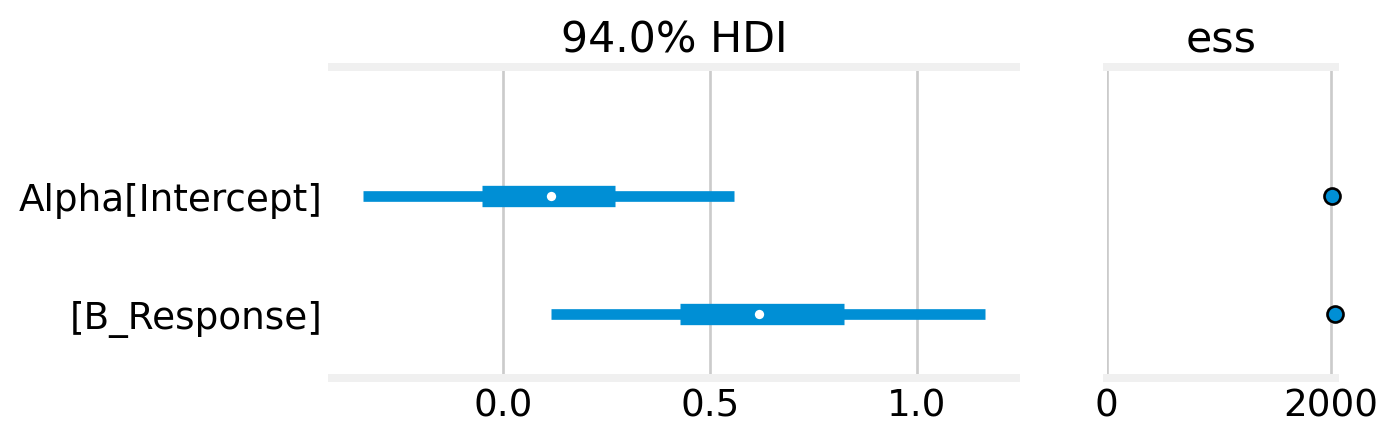
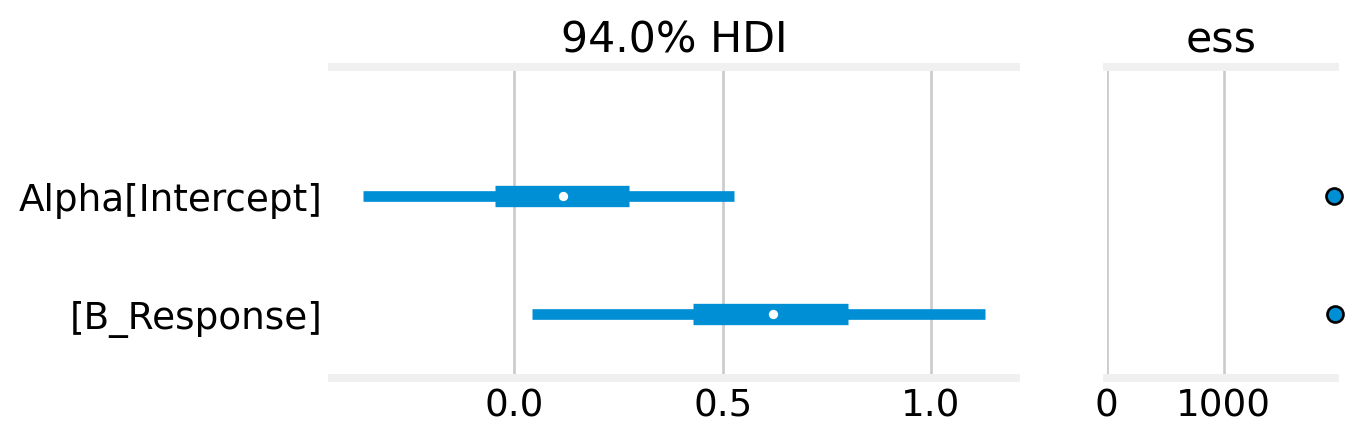
set xlim

diff --git a/docs/closed_cmr.html b/docs/closed_cmr.html
@@ -382,7 +382,7 @@ Table&nbsp;1: Example capture history, where <span class="math inline">\(t\)</sp
 <p>This produces a capture history for each individual, which allows us to estimate the probability of capture and the number of individuals in the population <span class="math inline">\(N\)</span>.</p>
 <section id="model-m_0" class="level1">
 <h1>Model <span class="math inline">\(M_0\)</span></h1>
-<div id="9339667e" class="cell" data-execution_count="1">
+<div id="86b6d334" class="cell" data-execution_count="1">
 <div class="sourceCode cell-code" id="cb1"><pre class="sourceCode python code-with-copy"><code class="sourceCode python"><span id="cb1-1"><a href="#cb1-1" aria-hidden="true" tabindex="-1"></a><span class="co"># libraries </span></span>
 <span id="cb1-2"><a href="#cb1-2" aria-hidden="true" tabindex="-1"></a><span class="im">import</span> numpy <span class="im">as</span> np</span>
 <span id="cb1-3"><a href="#cb1-3" aria-hidden="true" tabindex="-1"></a><span class="im">import</span> pandas <span class="im">as</span> pd</span>
@@ -404,7 +404,7 @@ Table&nbsp;1: Example capture history, where <span class="math inline">\(t\)</sp
 <span id="cb1-19"><a href="#cb1-19" aria-hidden="true" tabindex="-1"></a>M <span class="op">=</span> <span class="dv">1500</span></span></code><button title="Copy to Clipboard" class="code-copy-button"><i class="bi"></i></button></pre></div>
 </div>
 <p>I explore fitting the simplest closed capture-recapture model, Model <span class="math inline">\(M_0,\)</span> through parameter-expanded data-augmentation <span class="citation" data-cites="royle2008">(PX-DA, <a href="#ref-royle2008" role="doc-biblioref">Royle and Dorazio 2008</a>)</span>. The idea with PX-DA is to augment the capture histories with <span class="math inline">\(M-n\)</span> all zero capture-histories, where <span class="math inline">\(M\)</span> is a hyperparameter that should be much greater than the true population size <span class="math inline">\(N,\)</span> and <span class="math inline">\(n\)</span> is the total number of individuals that were captured during the study. This allows us to treat the data as a zero-inflated binomial distribution (see below).</p>
-<div id="f0224abd" class="cell" data-execution_count="2">
+<div id="2c12317d" class="cell" data-execution_count="2">
 <div class="sourceCode cell-code" id="cb2"><pre class="sourceCode python code-with-copy"><code class="sourceCode python"><span id="cb2-1"><a href="#cb2-1" aria-hidden="true" tabindex="-1"></a><span class="kw">def</span> augment_history(history):</span>
 <span id="cb2-2"><a href="#cb2-2" aria-hidden="true" tabindex="-1"></a>    <span class="co">'''Augment a capture history with all-zero histories.'''</span></span>
 <span id="cb2-3"><a href="#cb2-3" aria-hidden="true" tabindex="-1"></a>    </span>
@@ -420,7 +420,7 @@ Table&nbsp;1: Example capture history, where <span class="math inline">\(t\)</sp
 <span id="cb2-13"><a href="#cb2-13" aria-hidden="true" tabindex="-1"></a>    <span class="cf">return</span> augmented </span></code><button title="Copy to Clipboard" class="code-copy-button"><i class="bi"></i></button></pre></div>
 </div>
 <p>To demonstrate this approach, I use the salamander dataset from <span class="citation" data-cites="bailey2004">Bailey, Simons, and Pollock (<a href="#ref-bailey2004" role="doc-biblioref">2004</a>)</span>, as demonstrated in <span class="citation" data-cites="hooten2019">Hooten and Hefley (<a href="#ref-hooten2019" role="doc-biblioref">2019</a>)</span>, Chapter 24. These data were collected on two salamander species, the red-cheeked salamander (<em>Plethodon jordani</em>) and the pygmy salamander (<em>Desmognathus wrighti</em>), in Great Smoky Mountains National Park. The salamanders were counted in 15m by 15m square plots. In this case, we augment the history by setting <span class="math inline">\(M=1500\)</span> (see above). There were <span class="math inline">\(n=92\)</span> individual red-cheeked and <span class="math inline">\(n=132\)</span> pygmy salamanders captured during the course of the survey.</p>
-<div id="1d62dcf4" class="cell" data-execution_count="3">
+<div id="062ee22d" class="cell" data-execution_count="3">
 <div class="sourceCode cell-code" id="cb3"><pre class="sourceCode python code-with-copy"><code class="sourceCode python"><span id="cb3-1"><a href="#cb3-1" aria-hidden="true" tabindex="-1"></a><span class="kw">def</span> get_histories():</span>
 <span id="cb3-2"><a href="#cb3-2" aria-hidden="true" tabindex="-1"></a>    <span class="co">'''Read, augment, and recombine the salamander histories.'''</span></span>
 <span id="cb3-3"><a href="#cb3-3" aria-hidden="true" tabindex="-1"></a>    </span>
@@ -503,7 +503,7 @@ Figure&nbsp;1: Visual representation of model <span class="math inline">\(M_0.\)
 </div>
 </div>
 </div>
-<div id="3857a0a9" class="cell" data-execution_count="5">
+<div id="c8a3e946" class="cell" data-execution_count="5">
 <div class="sourceCode cell-code" id="cb5"><pre class="sourceCode python code-with-copy"><code class="sourceCode python"><span id="cb5-1"><a href="#cb5-1" aria-hidden="true" tabindex="-1"></a><span class="cf">with</span> M0:</span>
 <span id="cb5-2"><a href="#cb5-2" aria-hidden="true" tabindex="-1"></a>    M0_idata <span class="op">=</span> pm.sample()</span></code><button title="Copy to Clipboard" class="code-copy-button"><i class="bi"></i></button></pre></div>
 <div class="cell-output cell-output-stderr">
@@ -511,7 +511,7 @@ Figure&nbsp;1: Visual representation of model <span class="math inline">\(M_0.\)
 Initializing NUTS using jitter+adapt_diag...
 Multiprocess sampling (4 chains in 4 jobs)
 NUTS: [psi, p]
-Sampling 4 chains for 1_000 tune and 1_000 draw iterations (4_000 + 4_000 draws total) took 17 seconds.</code></pre>
+Sampling 4 chains for 1_000 tune and 1_000 draw iterations (4_000 + 4_000 draws total) took 18 seconds.</code></pre>
 </div>
 <div class="cell-output cell-output-display">
 
@@ -535,7 +535,7 @@ Sampling 4 chains for 1_000 tune and 1_000 draw iterations (4_000 + 4_000 draws 
 
     <div>
       <progress value="8000" class="" max="8000" style="width:300px; height:20px; vertical-align: middle;"></progress>
-      100.00% [8000/8000 00:16&lt;00:00 Sampling 4 chains, 0 divergences]
+      100.00% [8000/8000 00:17&lt;00:00 Sampling 4 chains, 0 divergences]
     </div>
     
 </div>
@@ -557,7 +557,7 @@ Figure&nbsp;2: Traceplots for the salamander <span class="math inline">\(M_0\)</
 </div>
 <p>For faster sampling, it’s better to separate the two species into two separate models. On my machine, the individual species models finish sampling in 2-3 seconds, compared to 15-20 seconds for the two species model. That said, the two species model is somewhat more convenient.</p>
 <p>Of course, the trace plots lack our true parameter of interest: the population size <span class="math inline">\(N.\)</span> We can simulate the posterior of <span class="math inline">\(N\)</span> as a <em>derived quantity</em>, using the posterior distribution of <span class="math inline">\(\psi\)</span> and <span class="math inline">\(p.\)</span></p>
-<div id="f6fe3881" class="cell" data-execution_count="7">
+<div id="8199e5f3" class="cell" data-execution_count="7">
 <div class="sourceCode cell-code" id="cb8"><pre class="sourceCode python code-with-copy"><code class="sourceCode python"><span id="cb8-1"><a href="#cb8-1" aria-hidden="true" tabindex="-1"></a><span class="co"># az.extract flattens the chains</span></span>
 <span id="cb8-2"><a href="#cb8-2" aria-hidden="true" tabindex="-1"></a>posterior <span class="op">=</span> az.extract(M0_idata)</span>
 <span id="cb8-3"><a href="#cb8-3" aria-hidden="true" tabindex="-1"></a>psi_samps <span class="op">=</span> posterior.psi.values</span>
@@ -642,7 +642,7 @@ Figure&nbsp;4: Posterior draws of <span class="math inline">\(N\)</span> and <sp
 <h1>Model <span class="math inline">\(M_b\)</span></h1>
 <p>Next, I fit model <span class="math inline">\(M_b,\)</span> which accounts for the possibility that the capture probability changes after the animal is first caught. This could be from trap happiness, whereby animals are more likely to be trapped after their first time. Conversely, this could be from subsequent trap avoidance.</p>
 <p>Mirroring <span class="citation" data-cites="royle2008">(<a href="#ref-royle2008" role="doc-biblioref">Royle and Dorazio 2008, chap. 5</a>)</span>, I fit this model to the <em>Microtus</em> dataset reported in <span class="citation" data-cites="williams2002">(<a href="#ref-williams2002" role="doc-biblioref">Williams, Nichols, and Conroy 2002, 525</a>)</span>. This version of the <a href="https://www.mbr-pwrc.usgs.gov/pubanalysis/roylebook/chapters.htm">dataset</a> includes encounter histories of <span class="math inline">\(n=56\)</span> adult males that were captured on <span class="math inline">\(T=5\)</span> consecutive days.</p>
-<div id="651d9f92" class="cell" data-execution_count="10">
+<div id="38e067d0" class="cell" data-execution_count="10">
 <div class="sourceCode cell-code" id="cb11"><pre class="sourceCode python code-with-copy"><code class="sourceCode python"><span id="cb11-1"><a href="#cb11-1" aria-hidden="true" tabindex="-1"></a><span class="co"># read in the microtus data</span></span>
 <span id="cb11-2"><a href="#cb11-2" aria-hidden="true" tabindex="-1"></a>microtus <span class="op">=</span> np.loadtxt(<span class="st">'microtus.data.txt'</span>).astype(<span class="bu">int</span>)</span>
 <span id="cb11-3"><a href="#cb11-3" aria-hidden="true" tabindex="-1"></a></span>
@@ -716,7 +716,7 @@ Figure&nbsp;5: Visual representation of model <span class="math inline">\(M_b.\)
 </div>
 </div>
 </div>
-<div id="a23ae05f" class="cell" data-execution_count="12">
+<div id="628b702e" class="cell" data-execution_count="12">
 <div class="sourceCode cell-code" id="cb13"><pre class="sourceCode python code-with-copy"><code class="sourceCode python"><span id="cb13-1"><a href="#cb13-1" aria-hidden="true" tabindex="-1"></a><span class="cf">with</span> mb:</span>
 <span id="cb13-2"><a href="#cb13-2" aria-hidden="true" tabindex="-1"></a>    mb_idata <span class="op">=</span> pm.sample()</span></code><button title="Copy to Clipboard" class="code-copy-button"><i class="bi"></i></button></pre></div>
 <div class="cell-output cell-output-stderr">
@@ -753,7 +753,7 @@ Sampling 4 chains for 1_000 tune and 1_000 draw iterations (4_000 + 4_000 draws 
     
 </div>
 </div>
-<div id="47c00c11" class="cell" data-execution_count="13">
+<div id="409d1615" class="cell" data-execution_count="13">
 <div class="sourceCode cell-code" id="cb15"><pre class="sourceCode python code-with-copy"><code class="sourceCode python"><span id="cb15-1"><a href="#cb15-1" aria-hidden="true" tabindex="-1"></a>az.summary(mb_idata, var_names<span class="op">=</span>[<span class="st">'Alpha'</span>, <span class="st">'psi'</span>])</span></code><button title="Copy to Clipboard" class="code-copy-button"><i class="bi"></i></button></pre></div>
 <div class="cell-output cell-output-display" data-execution_count="13">
 <div>
@@ -777,38 +777,38 @@ Sampling 4 chains for 1_000 tune and 1_000 draw iterations (4_000 + 4_000 draws 
 <tbody>
 <tr class="odd">
 <td data-quarto-table-cell-role="th">Alpha[Intercept]</td>
-<td>0.103</td>
-<td>0.239</td>
-<td>-0.339</td>
-<td>0.557</td>
+<td>0.111</td>
+<td>0.240</td>
+<td>-0.363</td>
+<td>0.527</td>
 <td>0.005</td>
 <td>0.004</td>
-<td>2059.0</td>
-<td>2216.0</td>
+<td>1955.0</td>
+<td>1703.0</td>
 <td>1.0</td>
 </tr>
 <tr class="even">
 <td data-quarto-table-cell-role="th">Alpha[B_Response]</td>
-<td>0.630</td>
-<td>0.285</td>
-<td>0.116</td>
-<td>1.165</td>
+<td>0.621</td>
+<td>0.283</td>
+<td>0.043</td>
+<td>1.129</td>
 <td>0.006</td>
 <td>0.005</td>
-<td>2062.0</td>
-<td>1965.0</td>
+<td>1962.0</td>
+<td>1671.0</td>
 <td>1.0</td>
 </tr>
 <tr class="odd">
 <td data-quarto-table-cell-role="th">psi</td>
-<td>0.574</td>
-<td>0.050</td>
-<td>0.478</td>
-<td>0.662</td>
+<td>0.572</td>
+<td>0.052</td>
+<td>0.475</td>
+<td>0.671</td>
 <td>0.001</td>
 <td>0.001</td>
-<td>2446.0</td>
-<td>2274.0</td>
+<td>2309.0</td>
+<td>2088.0</td>
 <td>1.0</td>
 </tr>
 </tbody>
@@ -823,7 +823,7 @@ Sampling 4 chains for 1_000 tune and 1_000 draw iterations (4_000 + 4_000 draws 
 <div id="fig-forest" class="quarto-figure quarto-figure-center quarto-float anchored">
 <figure class="quarto-float quarto-float-fig figure">
 <div aria-describedby="fig-forest-caption-0ceaefa1-69ba-4598-a22c-09a6ac19f8ca">
-<img src="closed_cmr_files/figure-html/fig-forest-output-1.png" width="699" height="222" class="figure-img">
+<img src="closed_cmr_files/figure-html/fig-forest-output-1.png" width="681" height="222" class="figure-img">
 </div>
 <figcaption class="quarto-float-caption-bottom quarto-float-caption quarto-float-fig" id="fig-forest-caption-0ceaefa1-69ba-4598-a22c-09a6ac19f8ca">
 Figure&nbsp;6: Forest plot showing the catchability parameters from model <span class="math inline">\(M_b.\)</span>
@@ -924,7 +924,7 @@ Figure&nbsp;8: Discovery curve for the <em>Microtus</em> study.
 <span id="cb19-8"><a href="#cb19-8" aria-hidden="true" tabindex="-1"></a>az.plot_dist(zero_p, ax<span class="op">=</span>ax, label<span class="op">=</span><span class="st">'First detection'</span>, color<span class="op">=</span><span class="st">'C0'</span>)</span>
 <span id="cb19-9"><a href="#cb19-9" aria-hidden="true" tabindex="-1"></a>az.plot_dist(one_p, ax<span class="op">=</span>ax, label<span class="op">=</span><span class="st">'Seen before'</span>, color<span class="op">=</span><span class="st">'C1'</span>)</span>
 <span id="cb19-10"><a href="#cb19-10" aria-hidden="true" tabindex="-1"></a>ax.set_title(<span class="st">'Posterior distributions of $p$'</span>)</span>
-<span id="cb19-11"><a href="#cb19-11" aria-hidden="true" tabindex="-1"></a><span class="co"># ax.set_xlabel('$p$')</span></span>
+<span id="cb19-11"><a href="#cb19-11" aria-hidden="true" tabindex="-1"></a>ax.set_xlim((<span class="dv">0</span>,<span class="dv">1</span>))</span>
 <span id="cb19-12"><a href="#cb19-12" aria-hidden="true" tabindex="-1"></a>ax.set_yticks([])</span>
 <span id="cb19-13"><a href="#cb19-13" aria-hidden="true" tabindex="-1"></a>ax.legend()</span>
 <span id="cb19-14"><a href="#cb19-14" aria-hidden="true" tabindex="-1"></a>plt.show()</span></code><button title="Copy to Clipboard" class="code-copy-button"><i class="bi"></i></button></pre></div>
@@ -932,7 +932,7 @@ Figure&nbsp;8: Discovery curve for the <em>Microtus</em> study.
 <div id="fig-b_effect" class="quarto-figure quarto-figure-center quarto-float anchored">
 <figure class="quarto-float quarto-float-fig figure">
 <div aria-describedby="fig-b_effect-caption-0ceaefa1-69ba-4598-a22c-09a6ac19f8ca">
-<img src="closed_cmr_files/figure-html/fig-b_effect-output-1.png" width="437" height="344" class="figure-img">
+<img src="closed_cmr_files/figure-html/fig-b_effect-output-1.png" width="466" height="344" class="figure-img">
 </div>
 <figcaption class="quarto-float-caption-bottom quarto-float-caption quarto-float-fig" id="fig-b_effect-caption-0ceaefa1-69ba-4598-a22c-09a6ac19f8ca">
 Figure&nbsp;9: Posterior distributions for the probability of detection given the behavioral effect.
